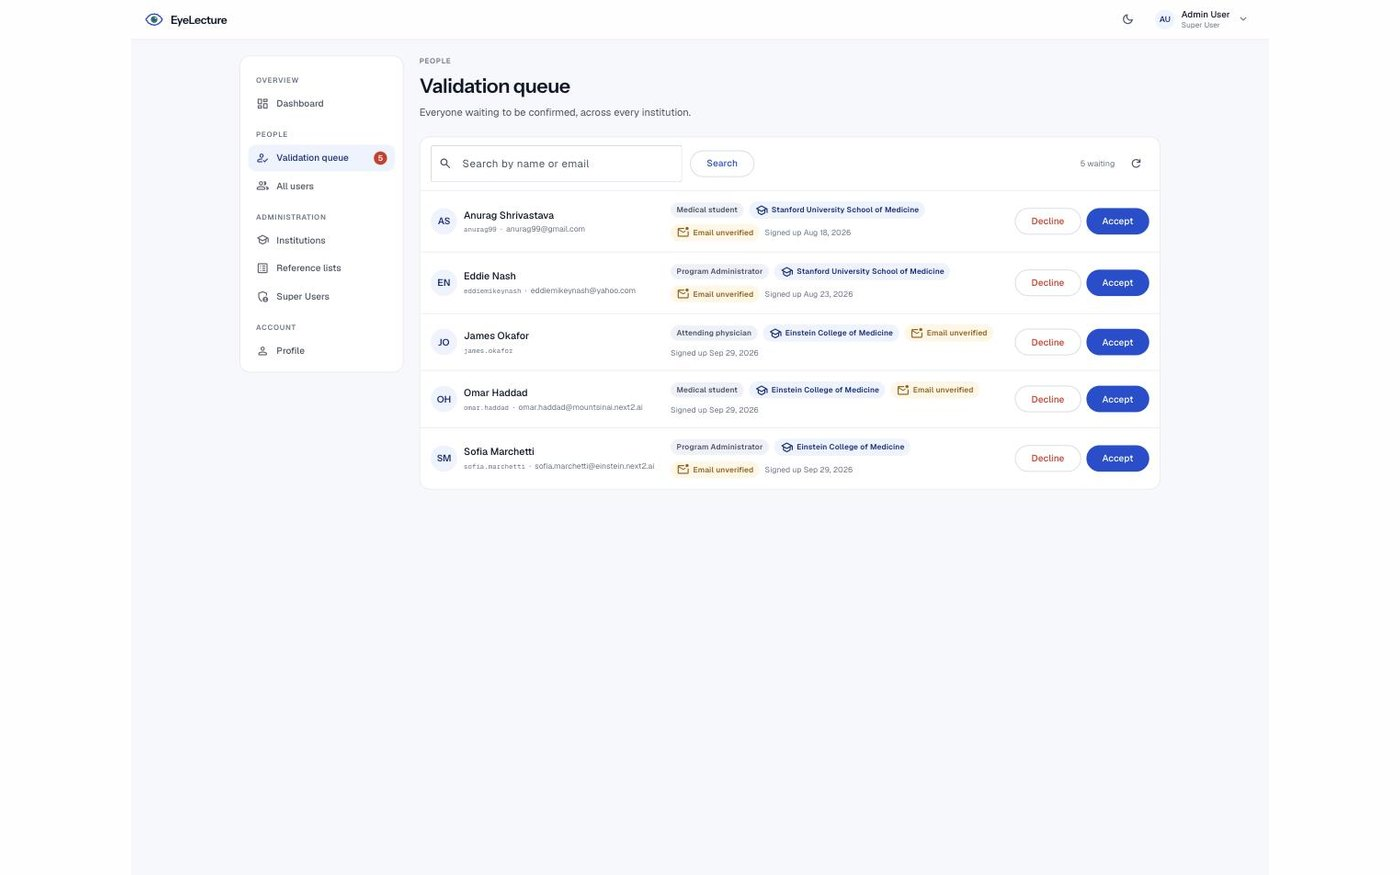
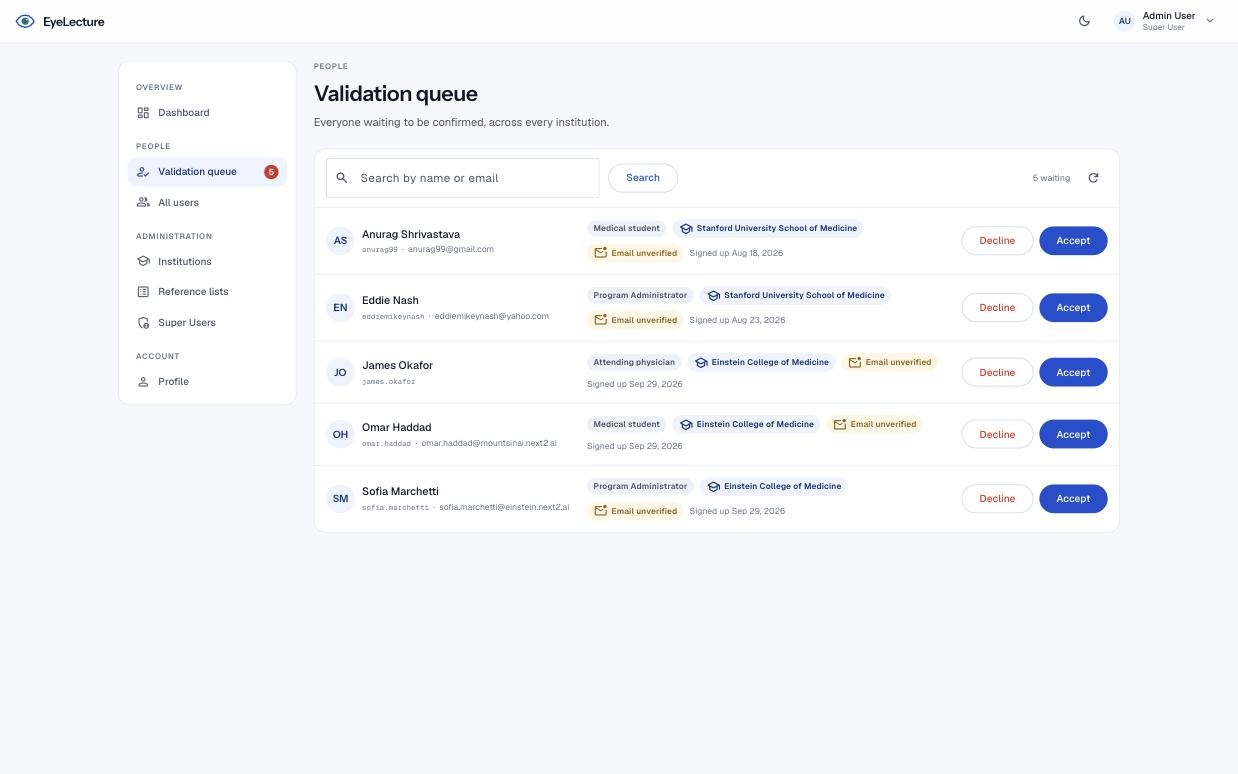
Landing: menu blanco sobre azul, capturas sin barras y micro-animaciones
El menu sobre el degradado se veia gris porque .topbar nav a estaba
declarado despues de .topbar-onblue nav a con la misma
especificidad, asi que ganaba el gris pensado para la barra blanca.
El bloque de la barra sobre azul se mueve despues, con una nota de
por que el orden importa.

Las capturas se recortan a 16:10 en vez de ponerles letterbox: las
barras arriba y a los costados eran justamente lo que se veia raro.
El recorte va anclado arriba a la izquierda, asi lo que se pierde es
espacio en blanco de abajo y no el borde redondeado del menu lateral.

Las tarjetas toman el hover del design system —se levantan, la sombra
se profundiza y el borde vira al primario— con las transiciones
declaradas en el estado de reposo, para que salir se anime igual que
entrar. El cuadrito del icono se levanta un poco mas, que es lo que
hace que la tarjeta y el icono lean como un solo objeto. Todo se
apaga con prefers-reduced-motion.

"Still have a question?" pasa a un panel ancho en celeste con borde
primario: el pedido a la izquierda, el boton pildora a la derecha, y
la flecha se inclina sola en hover.

diff --git a/landing/styles.css b/landing/styles.css
@@ -422,15 +422,56 @@ a:hover {
    Cards and badges — the app's `.el-card` and `.el-badge`.
    ============================================================ */
 
+/* The design system's card, with its hover: the whole thing lifts, the shadow
+   deepens and the border takes on the primary. Transitions are declared on the
+   resting state so leaving animates as well as arriving — a card that eases up
+   and snaps back is worse than one that never moved. */
 .card {
   background: var(--md-sys-color-surface);
   border: 1px solid var(--md-sys-color-outline-variant);
   border-radius: var(--md-sys-shape-corner-lg);
   padding: var(--sp-6);
+  transition:
+    box-shadow var(--motion-base) var(--ease-standard),
+    border-color var(--motion-base),
+    transform var(--motion-base) var(--ease-spring);
+}
+
+.card:hover {
+  box-shadow: var(--md-sys-elevation-3);
+  border-color: color-mix(
+    in srgb,
+    var(--md-sys-color-primary) 45%,
+    var(--md-sys-color-outline)
+  );
+  transform: translateY(-4px);
+}
+
+.card:active {
+  transform: translateY(-1px) scale(0.99);
+  transition-duration: var(--motion-fast);
 }
 
 .card .title {
   margin-bottom: var(--sp-2);
+}
+
+/* The icon tile picks up the lift a beat later than the card, which is what
+   makes the two read as one object rather than two. */
+.card .tile-ico {
+  transition: transform var(--motion-base) var(--ease-spring);
+}
+
+.card:hover .tile-ico {
+  transform: translateY(-2px) scale(1.06);
+}
+
+@media (prefers-reduced-motion: reduce) {
+  .card:hover,
+  .card:active,
+  .card:hover .tile-ico {
+    transform: none;
+  }
 }
 
 .badge {
@@ -503,6 +544,52 @@ a:hover {
 
 /* Transparent over the hero, solid once you leave it. The `.is-stuck` class is
    set by the one script on the page. */
+.topbar .wrap {
+  display: flex;
+  align-items: center;
+  gap: var(--sp-5);
+}
+
+.topbar nav {
+  display: flex;
+  gap: var(--sp-5);
+  margin-left: auto;
+  font-size: 15px;
+}
+
+.topbar nav a {
+  color: var(--md-sys-color-on-surface-variant);
+}
+
+.topbar nav a:hover {
+  color: var(--md-sys-color-on-surface);
+  text-decoration: none;
+}
+
+.topbar .btn {
+  height: 40px;
+  padding: 0 var(--sp-5);
+  font-size: 14.5px;
+}
+
+@media (max-width: 760px) {
+  .topbar nav {
+    display: none;
+  }
+  .topbar .btn {
+    margin-left: auto;
+  }
+}
+
+/* ============================================================
+   Top bar over the hero
+
+   Declared after the base `.topbar nav a`, not before it. Both selectors
+   have the same specificity, so the one further down wins — and with this
+   block above, the links on the gradient were taking the grey meant for the
+   white bar.
+   ============================================================ */
+
 .topbar-onblue {
   position: fixed;
   left: 0;
@@ -549,43 +636,6 @@ a:hover {
 
 .topbar-onblue.is-stuck .btn-onblue:hover {
   background: var(--el-blue-700);
-}
-
-.topbar .wrap {
-  display: flex;
-  align-items: center;
-  gap: var(--sp-5);
-}
-
-.topbar nav {
-  display: flex;
-  gap: var(--sp-5);
-  margin-left: auto;
-  font-size: 15px;
-}
-
-.topbar nav a {
-  color: var(--md-sys-color-on-surface-variant);
-}
-
-.topbar nav a:hover {
-  color: var(--md-sys-color-on-surface);
-  text-decoration: none;
-}
-
-.topbar .btn {
-  height: 40px;
-  padding: 0 var(--sp-5);
-  font-size: 14.5px;
-}
-
-@media (max-width: 760px) {
-  .topbar nav {
-    display: none;
-  }
-  .topbar .btn {
-    margin-left: auto;
-  }
 }
 
 /* ============================================================
@@ -851,9 +901,19 @@ a:hover {
     box-shadow var(--motion-slow, 420ms) var(--ease-standard);
 }
 
+/* Every slide is the same 16:10 box and the image fills it. The images are
+   already cropped to that ratio, so nothing is lost here — `cover` is the belt
+   to the braces, anchored top-left so any rounding goes to the bottom edge
+   rather than slicing the side navigation's rounded corner. */
+.slide {
+  aspect-ratio: 16 / 10;
+}
+
 .slide img {
   width: 100%;
-  height: auto;
+  height: 100%;
+  object-fit: cover;
+  object-position: top left;
   display: block;
 }
 
@@ -1414,17 +1474,54 @@ a:hover {
   max-width: 62ch;
 }
 
+/* One wide tinted panel: the ask on the left, the action on the right. A pill
+   button against a pale blue plate, which is the shape the app uses for its own
+   "there is one thing left to do" banners. */
 .faq-cta {
   margin-top: var(--sp-10);
-  padding: var(--sp-8);
-  border-radius: var(--md-sys-shape-corner-xl);
-  background: var(--md-sys-color-background);
-  border: 1px solid var(--md-sys-color-outline-variant);
-  text-align: center;
+  padding: var(--sp-6) var(--sp-6) var(--sp-6) var(--sp-8);
+  border-radius: var(--md-sys-shape-corner-2xl);
+  background: var(--acc-blue-surface);
+  border: 1.5px solid var(--md-sys-color-primary);
+  display: flex;
+  flex-wrap: wrap;
+  align-items: center;
+  justify-content: space-between;
+  gap: var(--sp-5);
+  text-align: left;
+}
+
+.faq-cta .title {
+  color: var(--acc-blue-on);
+  margin: 0;
 }
 
 .faq-cta .body {
-  margin: var(--sp-1) 0 var(--sp-5);
+  margin: 2px 0 0;
+  color: color-mix(in srgb, var(--acc-blue-on) 72%, transparent);
+}
+
+.faq-cta .btn {
+  flex: none;
+}
+
+/* The arrow leans forward on hover. Its own transition, so it moves against the
+   button rather than with it. */
+.btn .arrow {
+  transition: transform var(--motion-base) var(--ease-spring);
+}
+
+.btn:hover .arrow {
+  transform: translateX(3px);
+}
+
+@media (max-width: 560px) {
+  .faq-cta {
+    padding: var(--sp-6);
+  }
+  .faq-cta .btn {
+    width: 100%;
+  }
 }
 
 /* ============================================================

diff --git a/landing/index.html b/landing/index.html
@@ -287,16 +287,16 @@
           <div class="coverflow-stage">
             <div class="coverflow-track" data-cf="track">
             <figure class="slide" data-caption="Signing up — a recognised domain confirms you on the spot">
-              <img src="img/shot-1-signup.jpg" alt="Signing up: the form recognises the institutional email domain and confirms the institution straight away" width="1400" height="875" loading="lazy" />
+              <img src="img/shot-1-signup.jpg" alt="Signing up: the form recognises the institutional email domain and confirms the institution straight away" width="1238" height="774" loading="lazy" />
             </figure>
             <figure class="slide" data-caption="The dashboard — what is waiting, and who is in">
-              <img src="img/shot-2-dashboard.jpg" alt="The dashboard, showing how many people are waiting for review, how many institutions auto-validate and how many accounts exist" width="1400" height="875" loading="lazy" />
+              <img src="img/shot-2-dashboard.jpg" alt="The dashboard, showing how many people are waiting for review, how many institutions auto-validate and how many accounts exist" width="1272" height="795" loading="lazy" />
             </figure>
             <figure class="slide" data-caption="The review queue — two buttons, and both are final">
-              <img src="img/shot-3-queue.jpg" alt="The review queue, listing everybody waiting with the institution they named" width="1400" height="875" loading="lazy" />
+              <img src="img/shot-3-queue.jpg" alt="The review queue, listing everybody waiting with the institution they named" width="1238" height="774" loading="lazy" />
             </figure>
             <figure class="slide" data-caption="Institutions — a line each, until you open one">
-              <img src="img/shot-4-institutions.jpg" alt="The institutions screen with one row opened, showing its email domains and the people invited to administer it" width="1400" height="875" loading="lazy" />
+              <img src="img/shot-4-institutions.jpg" alt="The institutions screen with one row opened, showing its email domains and the people invited to administer it" width="1238" height="774" loading="lazy" />
             </figure>
             </div>
           </div>
@@ -601,9 +601,16 @@
           </div>
 
           <div class="faq-cta">
-            <p class="title">Still have a question?</p>
-            <p class="body">We read every one.</p>
-            <a class="btn btn-outline" href="#contact">Contact us</a>
+            <div>
+              <p class="title">Still have a question?</p>
+              <p class="body">Tell us about your program — we read every one.</p>
+            </div>
+            <a class="btn btn-primary" href="#contact">
+              Contact us
+              <svg class="arrow" viewBox="0 0 24 24" width="18" height="18" aria-hidden="true">
+                <path d="M4 12h15m-6-7 7 7-7 7" fill="none" stroke="currentColor" stroke-width="2" stroke-linecap="round" stroke-linejoin="round"/>
+              </svg>
+            </a>
           </div>
         </div>
       </section>
